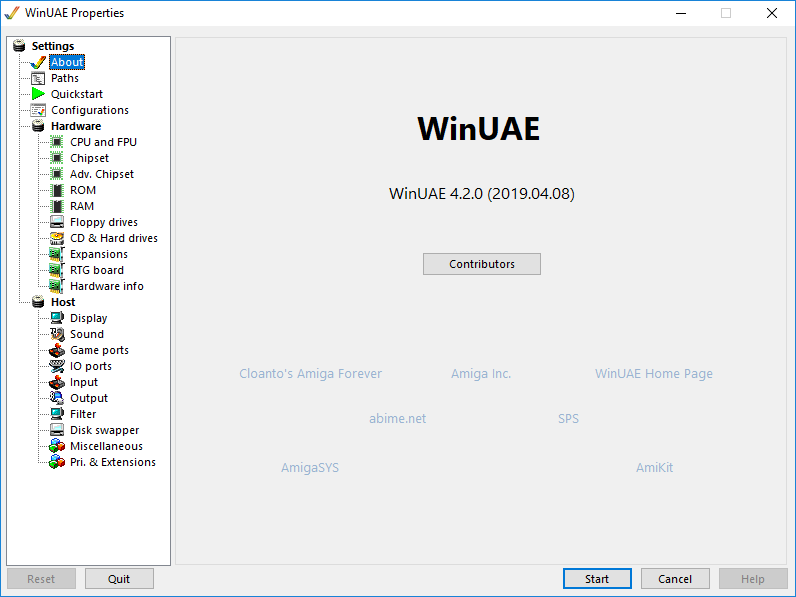
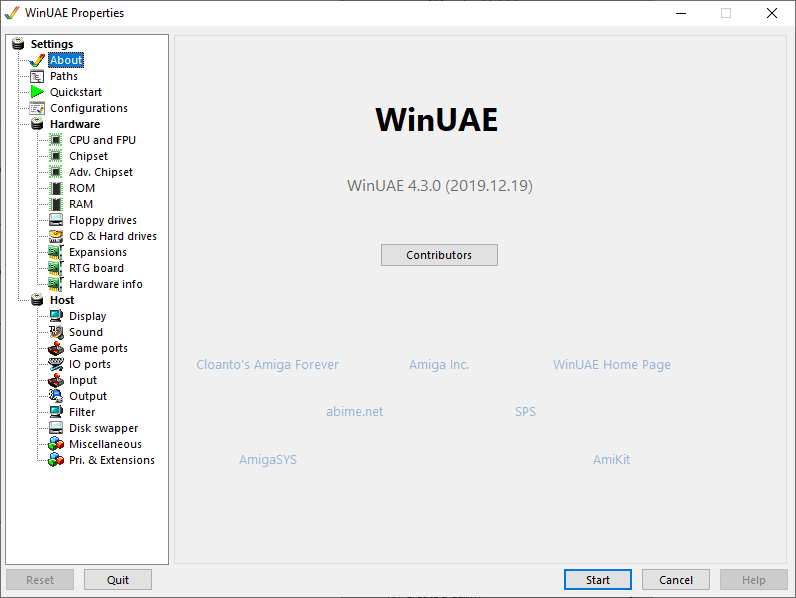
Winuae Help 3.0.2 Updated for Winuae 4.3.0 Updates to Bugs, FAQ, Features, Main and Index files.

diff --git a/faq.htm b/faq.htm
@@ -6,9 +6,11 @@
 </head>
 <body>
   <article>
-    <h1>Where can I get the latest UAE?</h1>
+    <h1>Where can I get the latest WinUAE?</h1>
     <p>Have a look at our collection of 
 	<a href="links.htm#official">official UAE sites</a>.</p>
+    <h1> What version of Windows is supported?</h1>
+    <p>You need Windows 7 SP1 or later for WinUAE 3.6.0 or later, which includes support for DirectX 11, also hardware level 9.1 or higher (most Windows 7 capable GPUs are supported), all Direct3D9 mode features are supports, variable sync and many D3D9 custom shared are supported.</p>
     <h1>Can a PC read Amiga floppy disks?</h1>
     <p>Yes, if you have two floppy drives and the new <a href=
     "links.htm#tools">Disk2FDI</a> program which will read Amiga
@@ -186,20 +188,10 @@
     such a state that the program will run correctly. You will
     probably need to get the latest AmigaOS Installer from <a href=
     "links.htm#original">Aminet</a> to install these tools.</p>
-    <h1>Why does WinUAE crash on Windows XP Home?</h1>
-    <p>This only happens in ancient versions, it is recommended
-    that you download the latest version of WinUAE from the
-    official <a href="links.htm#official">homepage</a>. This is
-    especially important for users of AmigaForever 4, where the
-    setup will crash.</p>
     <h1>Where can I download a good Workbench set up with useful
     programs?</h1>
-    <p>Get Amiga In a Box from <a href="links.htm#tools">AIAB</a>
-    which includes Scalos (Workbench replacement), MUI 3.8,
-    Picasso96, NewIcons, VisualPrefs, MCP, MUI tools and Screentab.
-    There are add-ons for Music, Internet, Languages and
-    Shapeshifter. Also, try latest <a href="https://www.amikit.amiga.sk/">AmiKit</a>
-	which includes Directory Ops and many useful tools.</p>
+    <p>Get the latest <a href="https://www.amikit.amiga.sk/">AmiKit</a>
+	which includes Directory Opus and many utilities including AmiStart, AMPlifier, Antiword, Apdf, AWeb, ClassAct, Eagleplayer, EvenMore, FFmpeg, FreeDB, HippoPlayer, Hollywood Player, HomeBank, IBrowse, ixemil, KingCON, MagicASL, MagicMenu, MCP, Midiplay, MUI, NetSurf, MUIBase, NewsCoaster, PerfectPaint, Picasso96, PFS III, Scalos theme, ScummVM, ShowAmiga96, StormMesa, SysInfo, TTEngine, twittAmiga, Warp3D, XPKMaster, YAM and many others.</p>
     <h1>When I run WinUAE, I get an error DINPUT8.DLL not
     found?</h1>
     <p>Please update your OS and WinUAE. If you are intentionally

diff --git a/howto/newos.htm b/howto/newos.htm
@@ -44,19 +44,17 @@
     There is an update available for AmigaOS 3.9 called a Boing Bag
     and to get it to install on WinUAE you need a patch available
     from <a href="../links.htm#original">Amiga, Inc</a>.</p>
-    <h1>Installing OS3.9 using an AIAB installation</h1>
-    <p>If you don't have <a href="../links.htm#tools">AIAB</a>, it
+    <h1>Installing OS3.9 using an Amikit installation</h1>
+    <p>If you don't have <a href="../links.htm#tools">Amikit</a>, it
     is recommended to install it. This is the fastest way to get a
     working OS 3.9 installation.</p>
     <ol>
-      <li>Boot from AIAB</li>
+      <li>Boot from Host machine.</li>
+      <li>Copy kick.rom to AmiKit/ROMs folder.</li>
+      <li>Optionally, copy Picasso96.lha to Amikit/RabbitHole folder.</li>
       <li>Insert the OS 3.9 CD</li>
-      <li>Start the OS 3.9 Installer and choose "Make emergency
-      floppy"<br>
-      The installer will create an emergency floppy with correct
-      CD-ROM support and P96 support with correct rtg.library</li>
-      <li>Boot from the emergency floppy</li>
-      <li>You are ready to install OS3.9</li>
+      <li>Run Amikit.exe program and click Configure to import AmigaOS files.</li>
+      <li>Select 1366x768 32bit screen mode.</li>
     </ol>
     <p><strong>Hint:</strong> If you get CD read errors you need
     reduce the max transfer rate in your CD-ROM driver

diff --git a/features.htm b/features.htm
@@ -14,6 +14,7 @@
       <li>OCS</li>
       <li>ECS (Agnus and/or Denise)</li>
       <li>AGA</li>
+      <li>RTG (via Picasso 96)</li>
     </ul>
     <p>PAL and NTSC chipset support.<br>
     All chipsets types have optional cycle-exact emulation
@@ -27,6 +28,7 @@
       <li>68030</li>
       <li>68040 (including EC/LC)</li>
       <li>68060 (including EC/LC)</li>
+      <li>PPC support</li>
     </ul>
     <p>68000 has optional more compatible prefetch and cycle-exact
     modes.<br>
@@ -35,7 +37,8 @@
     68030, 040 and 060 have optional MMU emulation support. MMU
     emulation is not JIT compatible.<br>
     68060 has optional exception emulation for unimplemented
-    integer instructions.</p>
+    integer instructions.<br>
+    PPC support via CyberStorm PPC or Blizzard PPC boards.</p>
     <p>All CPUs also have user adjustable and fastest possible
     speed options and optional FPU support.</p>
     <h1>FPU</h1>

diff --git a/background/amigados.htm b/background/amigados.htm
@@ -7,7 +7,7 @@
 <body>
   <article>
     <p>These are the AmigaDOS commands found in the C directory
-    with an explination of the command and an example.</p>
+    with an explanation of the command and an example.</p>
     <pre><strong>Addbuffers</strong>
 Format:  Addbuffers <em>Drive/A Buffers/N</em>
 Purpose: Add memory to floppy disk buffers to improve speed.

diff --git a/bugs.htm b/bugs.htm
@@ -17,7 +17,7 @@
     all bug reports:</p>
     <ul>
       <li>WinUAE Version</li>
-      <li>Host Operating System (Windows XP, Vista, 7, 8, 10 etc.)</li>
+      <li>Host Operating System (Windows 7, 8, 10 etc.)</li>
       <li>DirectX version</li>
       <li>PC Graphics card and the driver version</li>
       <li>Sound card and the driver version</li>
